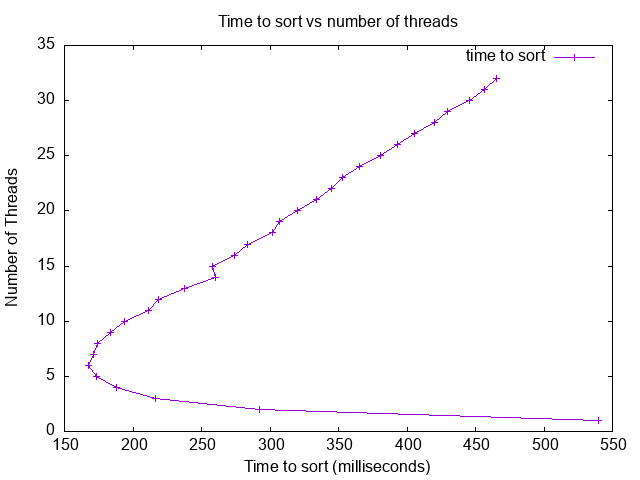
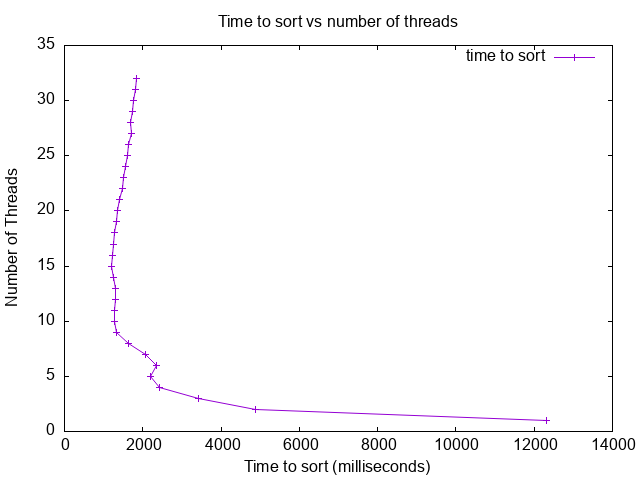
Updated example plot

diff --git a/docs/cs452/projects/p5.md b/docs/cs452/projects/p5.md
@@ -196,7 +196,7 @@ Created plot student_plot.png from data.dat file
 
 After the script finishes you should see a new file named
 `student_plot.png`. We can see in the example below the optimum number
-of threads is 5 on my M1 Mac. Your results will vary depending on your
+of threads is 9 on my M1 Mac. Your results will vary depending on your
 hardware and current system load.
 
 ![example plot](./images/example_plot.png)
